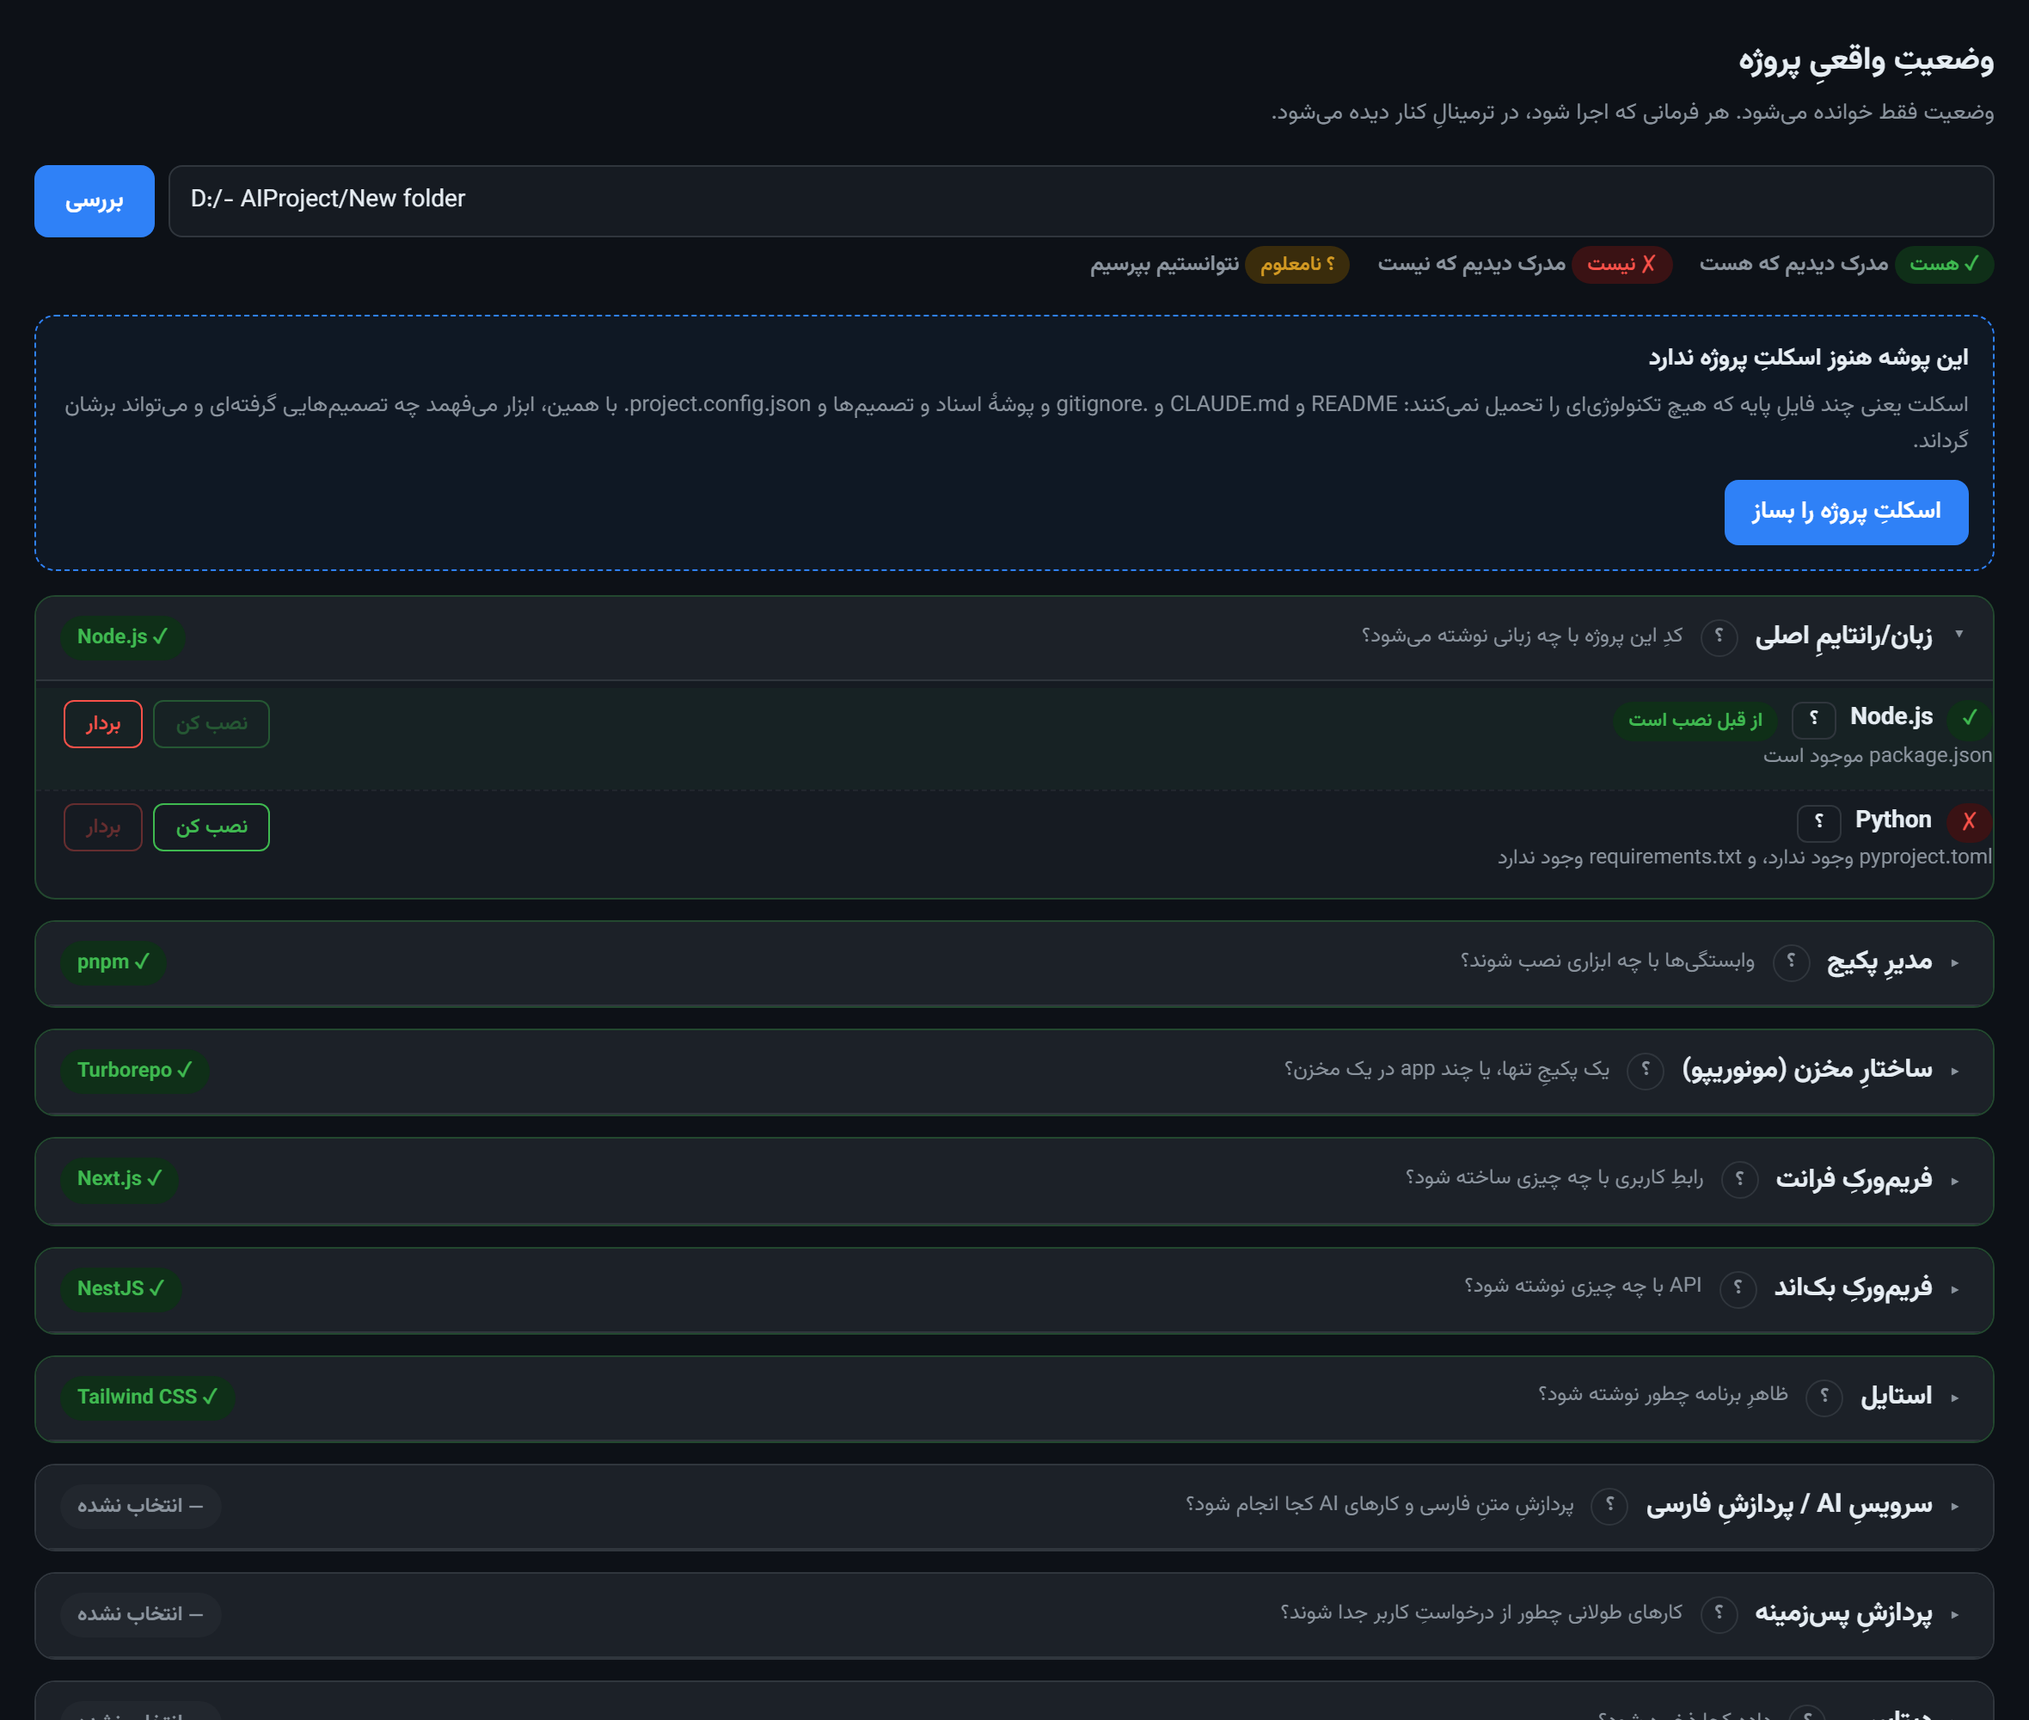
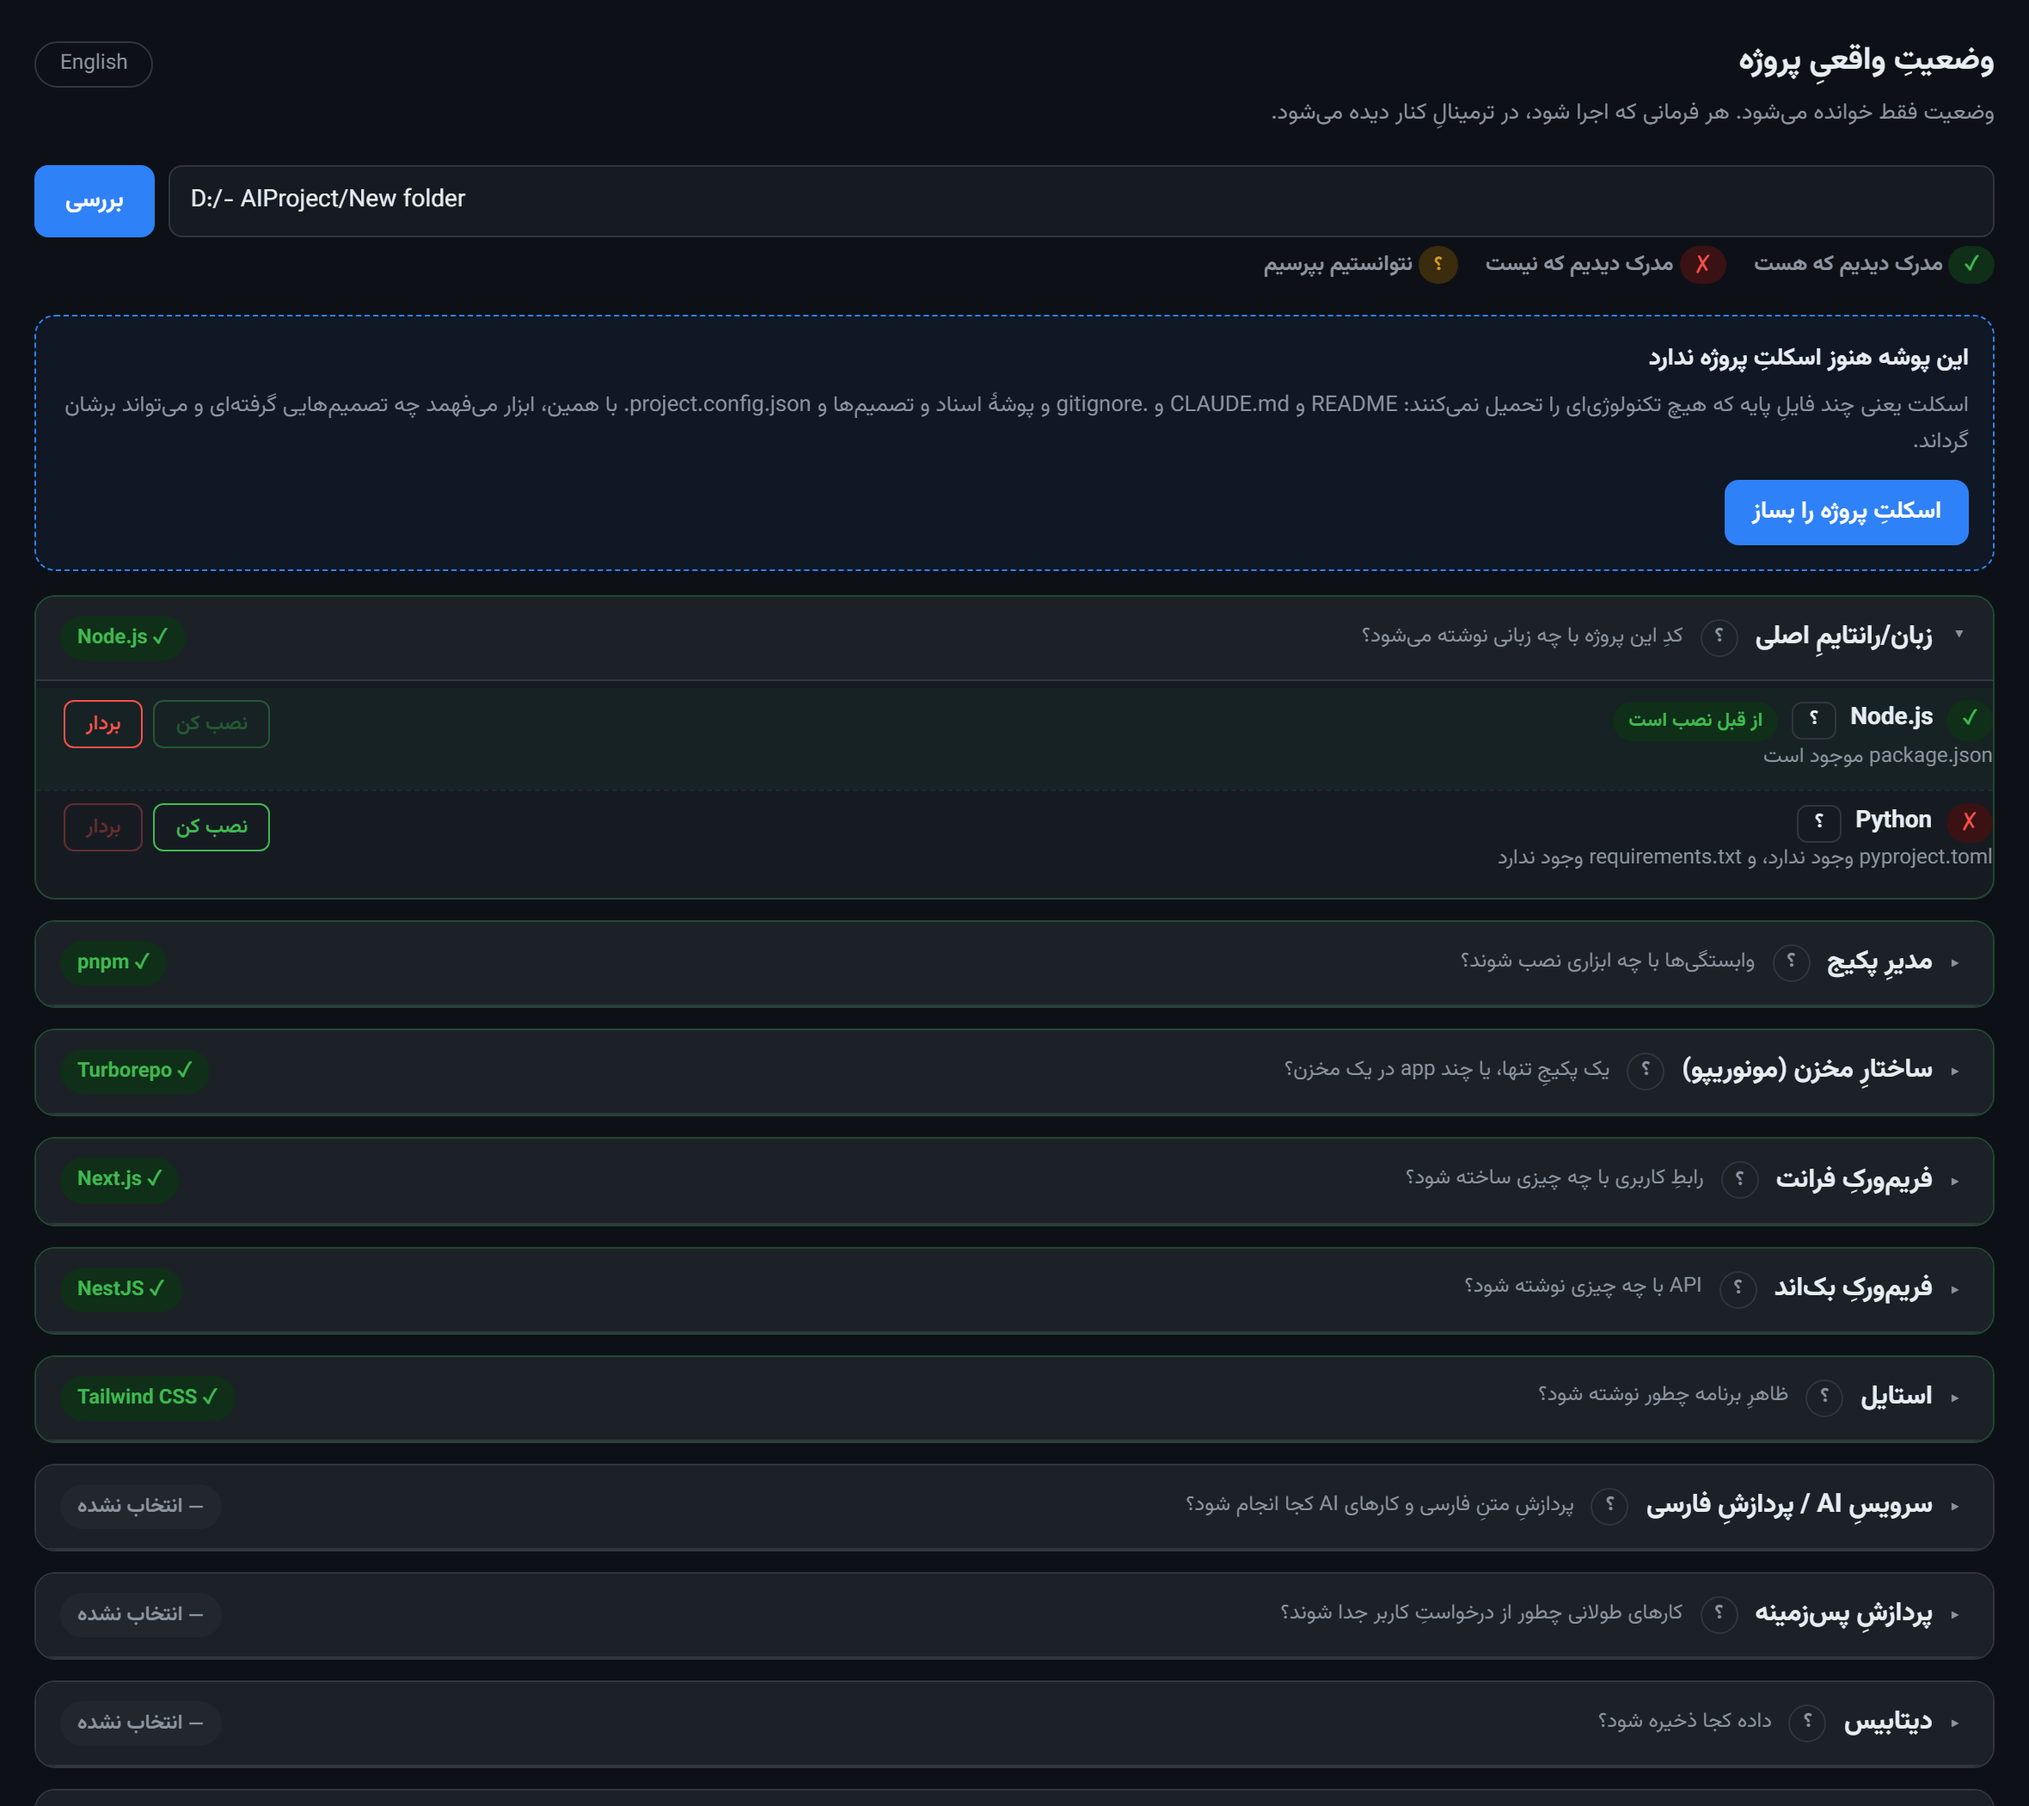
Language switching is instant now, and a fresh screenshot
Switching language re-fetched the whole project state, and that state comes
from a probe that talks to Docker — so it took seconds. Now each language's
answer is cached, the other language is fetched quietly in the background
after the first load, and switching renders from cache. Measured: 1-2 ms.

The cache is cleared whenever something is installed or removed, so a stale
answer can never be shown as evidence.

Screenshot regenerated against the current UI and used in both READMEs.

diff --git a/src/server/public/index.html b/src/server/public/index.html
@@ -803,6 +803,7 @@
       btn.disabled = false;
       // بعد از نصب، همان گروه باز بماند و بقیه بسته.
       openGroup = groupOf(techId);
+      stackCache.clear(); // وضعیت عوض شده؛ کشِ کهنه دیگر مدرک نیست
       loadDecisions();
       load();
     }
@@ -1035,14 +1036,27 @@
     }
   }
 
-  async function loadDecisions() {
+  // جوابِ هر زبان کش میشود تا تعویضِ زبان فوری باشد. کلید، مسیر و زبان.
+  const stackCache = new Map();
+  const cacheKey = (path, lang) => lang + "|" + path;
+
+  async function loadDecisions({ useCache = false } = {}) {
     const path = $("path").value.trim();
     const host = $("decisions");
     if (!path) { host.textContent = ""; return; }
+
+    const key = cacheKey(path, LANG);
+    if (useCache && stackCache.has(key)) {
+      const c = stackCache.get(key);
+      renderDecisions(path, c.stack, c.freshness);
+      return;
+    }
+
     try {
       const r = await fetch("/api/stack?lang=" + LANG + "&path=" + encodeURIComponent(path));
       const data = await r.json();
       if (!data.ok) { host.textContent = ""; return; }
+      stackCache.set(key, { stack: data.stack, freshness: data.freshness });
       renderDecisions(path, data.stack, data.freshness);
     } catch {
       host.textContent = "";
@@ -1067,22 +1081,37 @@
     }
   }
 
-  $("go").addEventListener("click", () => { load(); loadDecisions(); });
+  $("go").addEventListener("click", () => { stackCache.clear(); load(); loadDecisions().then(prefetchOtherLang); });
+
+  /** زبانِ دیگر را بیصدا میگیریم تا تعویض بعداً فوری باشد. */
+  async function prefetchOtherLang() {
+    const path = $("path").value.trim();
+    const other = LANG === "fa" ? "en" : "fa";
+    const key = cacheKey(path, other);
+    if (!path || stackCache.has(key)) return;
+    try {
+      const r = await fetch("/api/stack?lang=" + other + "&path=" + encodeURIComponent(path));
+      const data = await r.json();
+      if (data.ok) stackCache.set(key, { stack: data.stack, freshness: data.freshness });
+    } catch { /* بیاهمیت — فقط پیشگرفتن بود */ }
+  }
 
   // تعویضِ زبان: انتخاب ذخیره میشود و صفحه از نو با همان زبان ساخته میشود.
-  $("langBtn").addEventListener("click", () => {
+  $("langBtn").addEventListener("click", async () => {
     LANG = LANG === "fa" ? "en" : "fa";
     localStorage.setItem(LANG_KEY, LANG);
     applyLang();
-    load();
-    loadDecisions();
+
+    // اگر این زبان قبلاً گرفته شده، همان لحظه رندر میشود؛ وگرنه یک درخواستِ
+    // سبک. گزارشِ probe اصلاً دوباره گرفته نمیشود — متنش عوض نمیشود.
+    await loadDecisions({ useCache: true });
   });
 
   applyLang();
-  $("path").addEventListener("keydown", (e) => { if (e.key === "Enter") { load(); loadDecisions(); } });
+  $("path").addEventListener("keydown", (e) => { if (e.key === "Enter") { stackCache.clear(); load(); loadDecisions().then(prefetchOtherLang); } });
 
   let timer = null;
-  $("path").addEventListener("input", () => { clearTimeout(timer); timer = setTimeout(() => { load(); loadDecisions(); }, 500); });
+  $("path").addEventListener("input", () => { clearTimeout(timer); timer = setTimeout(() => { stackCache.clear(); load(); loadDecisions(); }, 500); });
 
   // ---------------------------------------------------------------- ترمینال
 
@@ -1115,7 +1144,7 @@
     // دکمههای اعمال/برگشت تا وصلشدنِ ترمینال خاموش میمانند: فرمانی که
     // خروجیاش دیده نشود، ناقضِ قاعدهٔ «هیچ چیزی پنهان اجرا نشود» است.
     // (این را تستِ سرتاسری پیدا کرد: کلیکِ قبل از اتصال، خروجی را میبلعید.)
-    if (termReady !== on) { termReady = on; loadDecisions(); }
+    if (termReady !== on) { termReady = on; loadDecisions({ useCache: true }); }
   }
 
   const pendingSteps = new Map();
@@ -1189,7 +1218,7 @@
 
   // مسیر در آدرسِ صفحه هم قابلِ دادن است: /?path=...
   const fromUrl = new URLSearchParams(location.search).get("path");
-  if (fromUrl) { $("path").value = fromUrl; load(); loadDecisions(); }
+  if (fromUrl) { $("path").value = fromUrl; load(); loadDecisions().then(prefetchOtherLang); }
 </script>
 </body>
 </html>
